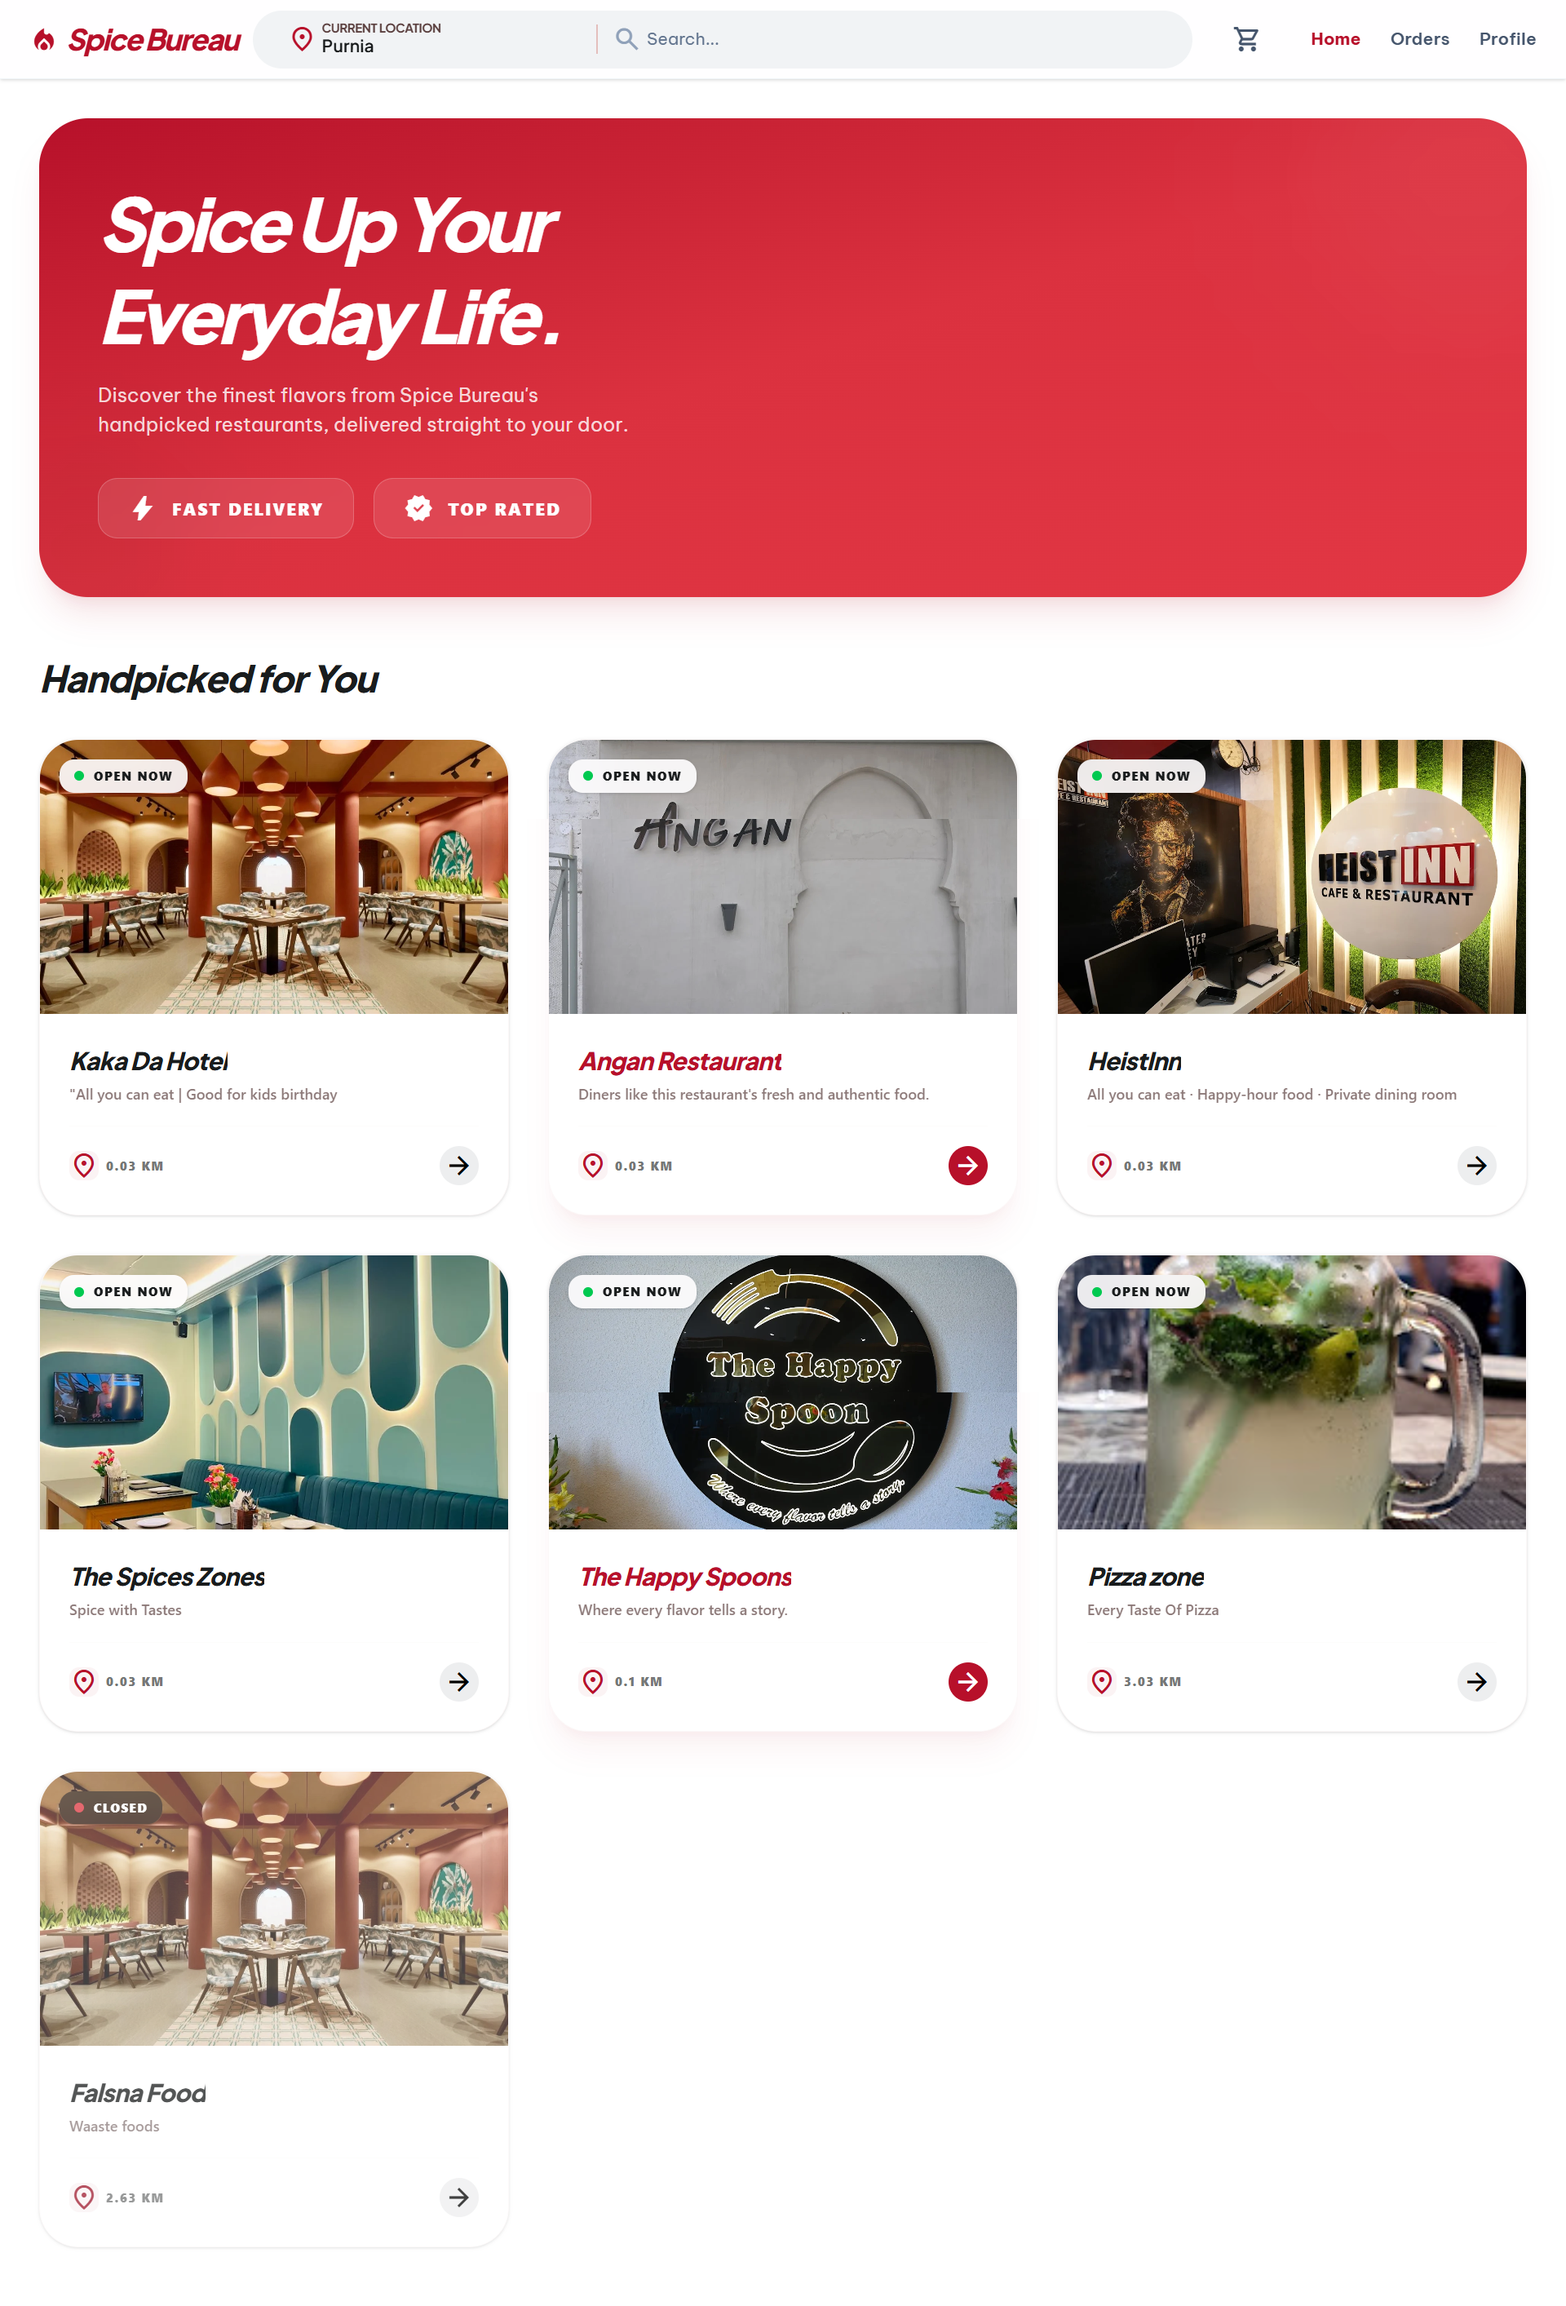
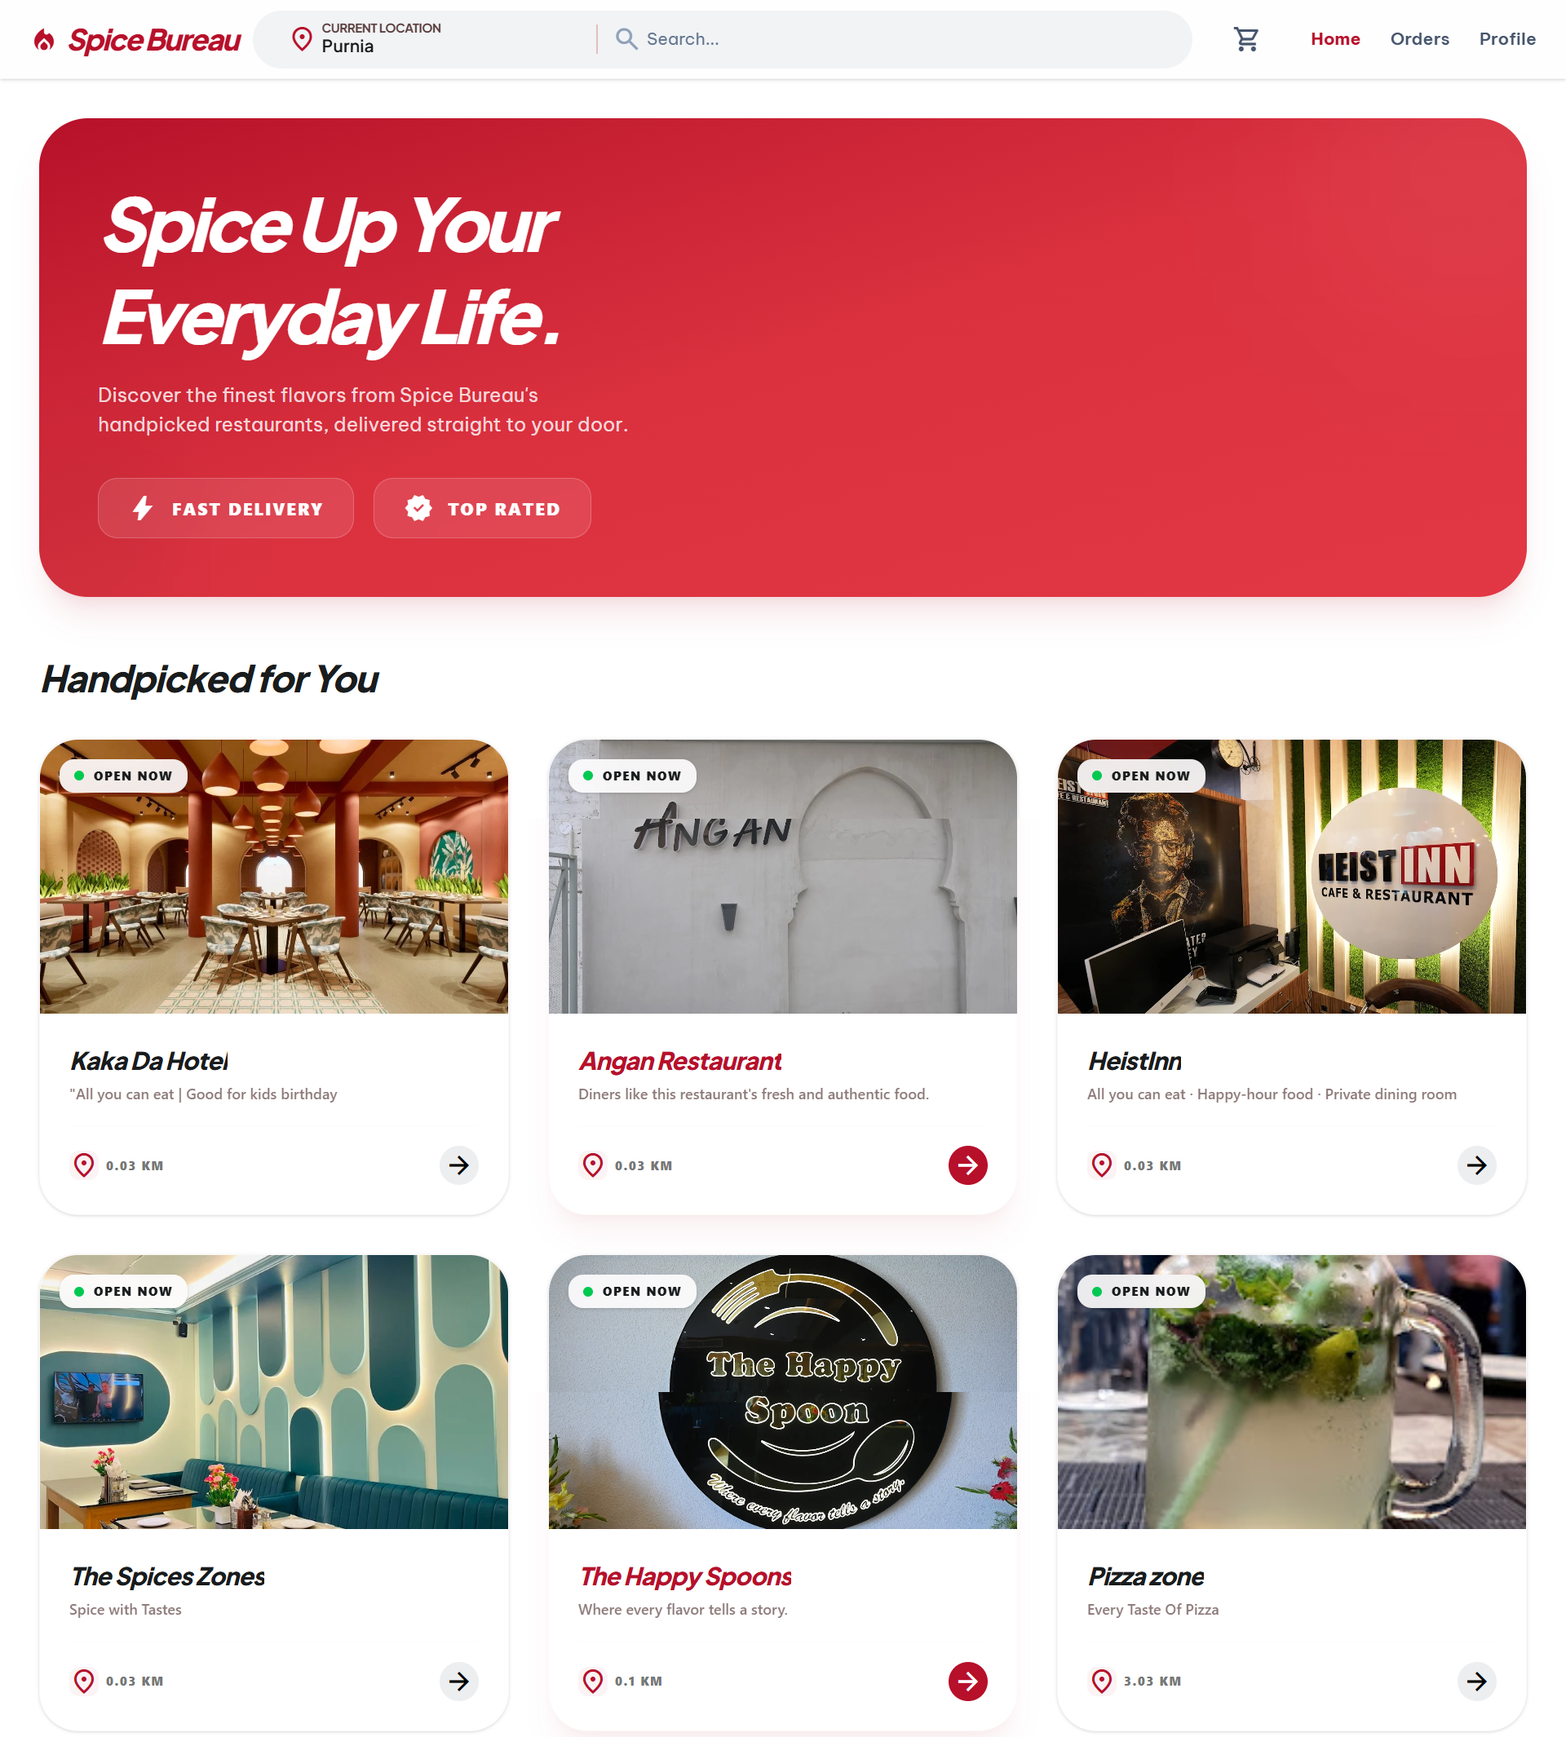
Initial Commit

diff --git a/README.md b/README.md
@@ -8,7 +8,6 @@
 
 **Spice Bureau 2.0** is a comprehensive, scalable food delivery platform that seamlessly connects customers, restaurant owners (sellers), delivery personnel (riders), and administrators. Built with a robust microservices architecture and a dynamic, responsive frontend, Spice Bureau aims to provide a premium user experience and efficient operational management for the food delivery industry.
 
----
 
 ## Gallery & Portals
 
@@ -60,7 +59,6 @@
   </tr>
 </table>
 
----
 
 ## Key Features
 
@@ -69,7 +67,6 @@
 - **Rider Portal**: Accept delivery requests, utilize real-time navigation and routing using Leaflet, update delivery statuses instantly, and manage earnings.
 - **Admin Portal**: Platform-wide oversight, comprehensive user management, restaurant approvals, and deep system analytics.
 
----
 
 ## Tech Stack & Architecture Decisions
 
@@ -101,7 +98,6 @@ Instead of a monolithic backend, Spice Bureau utilizes a **Microservices Archite
 5. **Realtime Service**: Dedicated WebSocket server for live order tracking, instant notifications, and chat.
 6. **Utils**: Shared configurations, common middlewares, and utility functions across all services.
 
----
 
 ## How to Run Locally
 
@@ -200,7 +196,6 @@ npm run dev
 
 *(Note: Ensure MongoDB and RabbitMQ are actively running before starting the backend services to prevent connection timeouts.)*
 
----
 
 ## Future Scope & Roadmap
 
@@ -213,7 +208,6 @@ While Spice Bureau 2.0 is fully functional, continuous improvement is in our DNA
 - **Mobile Applications**: Port the responsive web portals to native mobile applications for iOS and Android using React Native.
 - **Advanced Push Notifications**: Integrate sophisticated web and mobile push notifications for instant order and delivery status updates.
 
----
 
 ## Contributing
 Contributions, bug reports, and feature requests are highly welcome! 
@@ -222,5 +216,4 @@ If you'd like to contribute, please fork the repository and use a feature branch
 ## License
 This project is licensed under the [MIT License](LICENSE).
 
----
 *Crafted with passion for the ultimate food delivery experience.*
